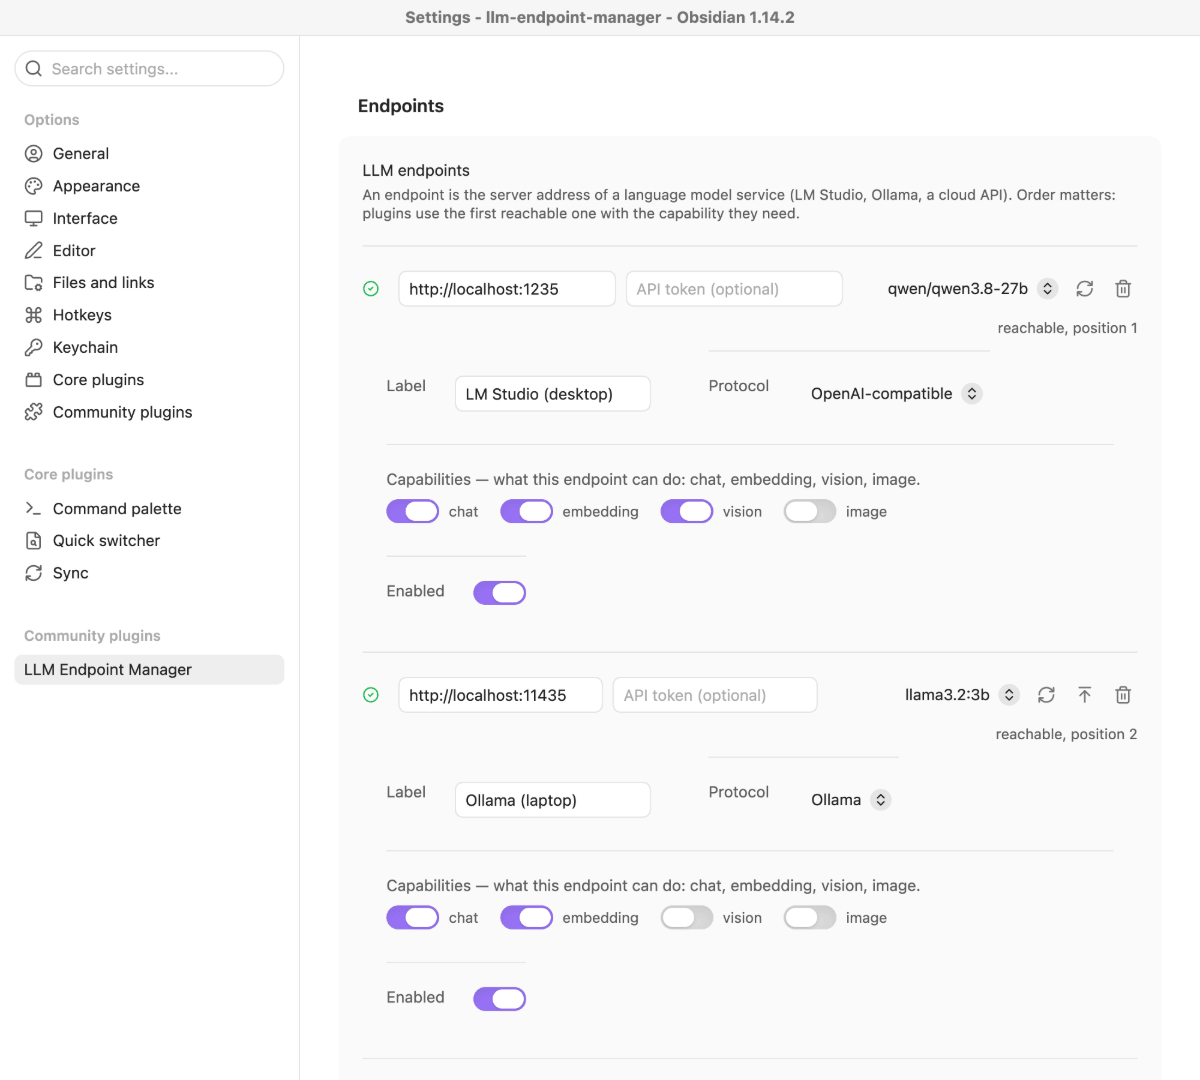
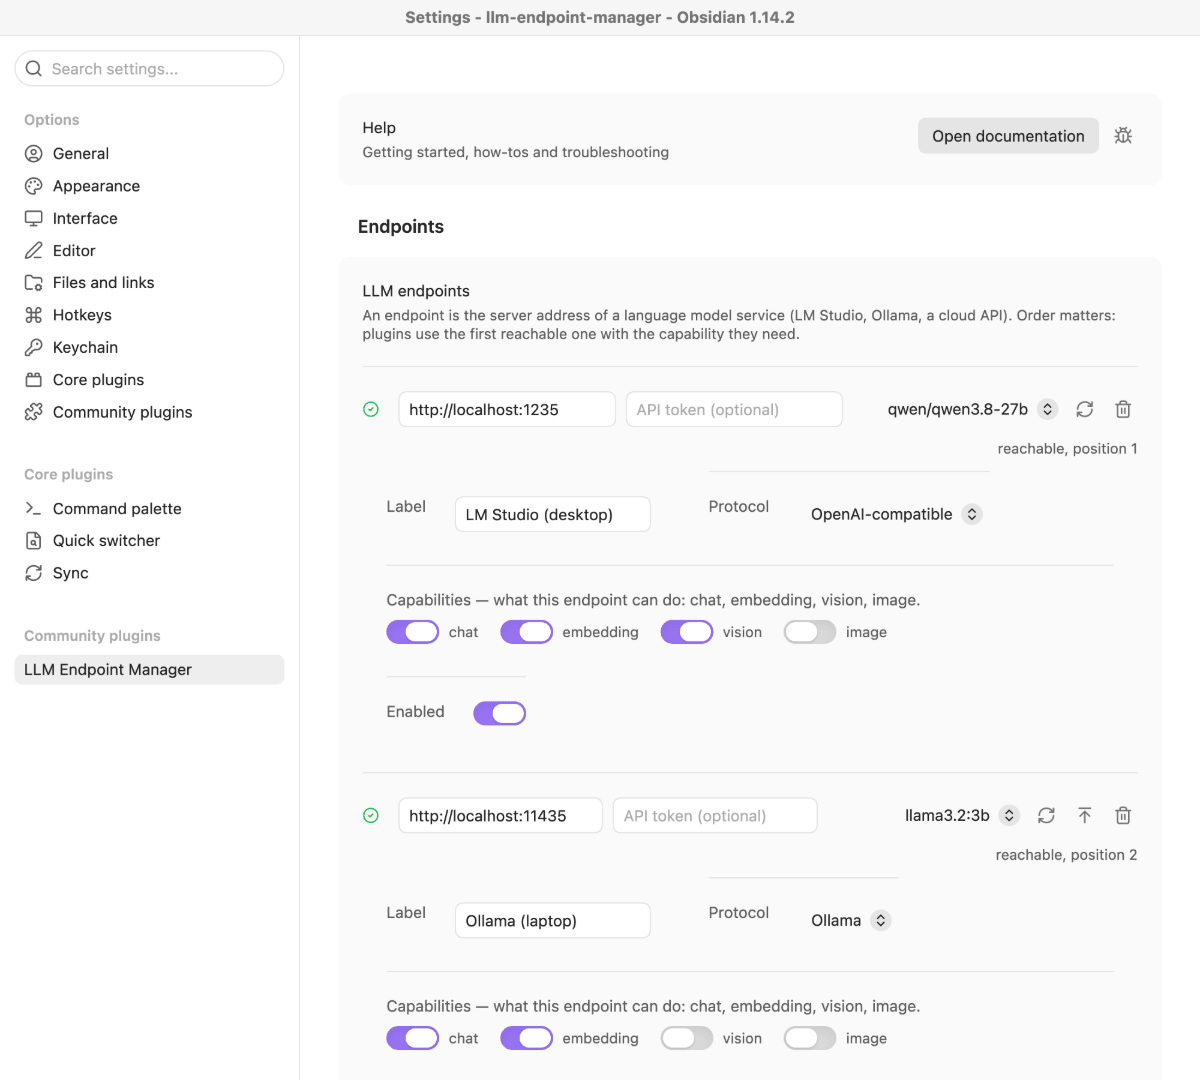
docs(images): hero.png mit Hilfe-Zeile neu aufgenommen, Vertrag nachgezogen

diff --git a/docs/images/README.md b/docs/images/README.md
@@ -12,7 +12,7 @@ The plugin has no view of its own, so every image shows its settings tab. Since 
 
 | Datei | Klasse | referenziert von | muss zeigen |
 | --- | --- | --- | --- |
-| `hero.png` | hero | README (oben) | The whole settings window: the sidebar entry **LLM Endpoint Manager** selected, the group **Endpoints** with the first two rows — **LM Studio (desktop)** at "reachable, position 1" and **Ollama (laptop)** at "reachable, position 2", each with its green status indicator, protocol, capability toggles and **Enabled** switch. Must explain without a caption that this is one list of endpoints for other plugins. |
+| `hero.png` | hero | README (oben) | The whole settings window: the sidebar entry **LLM Endpoint Manager** selected, the **Help** row on top ("Open documentation" and the bug icon), the group **Endpoints** with the first two rows — **LM Studio (desktop)** at "reachable, position 1" and **Ollama (laptop)** at "reachable, position 2", each with its green status indicator, protocol, capability toggles and **Enabled** switch. Must explain without a caption that this is one list of endpoints for other plugins. |
 | `endpoints.png` | feature | README § Features | The lower half of the endpoint list with **two rows of different role**: a reachable one ("reachable, position 2") and an unreachable one (red indicator, "not reachable", "token saved" with the change/remove icons, the warning icon), plus the add field and the preset buttons **LM Studio**, **Ollama**, **OpenAI-compatible cloud** and **Check connections**. The claim: reachability and order are two different things, and tokens show as "saved", never as a value. |
 | `models.png` | feature | README § Features | The **Models** group for one endpoint: model rows with a set **Family** ("Qwen 3.8"), a suggested one ("Suggested: Qwen 3.8", "Suggested: Gemma 4"), one row filled in **Other spelling of** (`qwen/qwen3.8-27b@4bit` → `qwen/qwen3.8-27b`) and the **Backend** row with **Detect**. |
 | `consumers.png` | feature | README § Features | The groups **API tokens** (keychain status text) and **Plugins using these endpoints** with two calling plugins, each with a capability and a time. The claim: you can see which plugin asked for what. |
